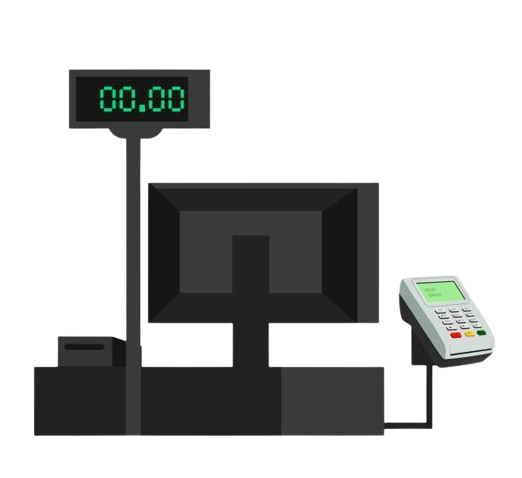
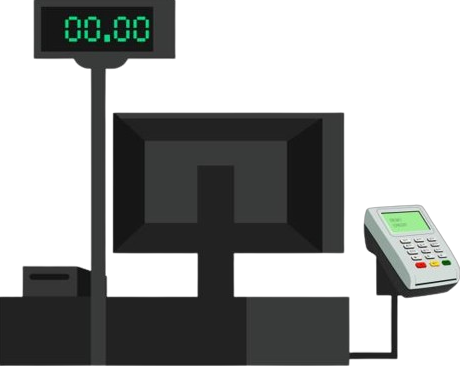
Crop nas images e mudança de tamanhos
.

diff --git a/stylesjogo.css b/stylesjogo.css
@@ -33,10 +33,10 @@ body {
 
 #Main_Character {
     position: absolute;
-    top: 360px;
-    left: 730px; /* 800px - 70px */
+    top: 500px;
+    left: 930px; /* 800px - 70px */
     transform: translate(-50%, -50%);
-    width: 130px;
+    width: 66px;
 }
 
 #Tapete_animais {
@@ -44,8 +44,7 @@ body {
     top: 400px;
     left: 340px; /* 410px - 70px */
     transform: translate(-50%, -50%);
-    width: 500px;
-    height: 500px;
+    height: 200px;
 }
 
 #Cão {
@@ -87,10 +86,10 @@ body {
 
 #Tapete_entrada {
     position: absolute;
-    top: 896px;
+    top: 890px;
     left: 703px; /* 632px - 70px */
     transform: translate(-50%, -50%);
-    width: 230px;
+    width: 100px;
 }
 
 #Caixa_Registadora {
@@ -105,9 +104,9 @@ body {
 #Image_coins_bar{
     position: absolute;
     top: 130px;
-    left: 160px;
+    left: 166px;
     transform: translate(-50%, -50%);
-    width: 233px;
+    width: 180px;
     z-index: 1;
 
 }
@@ -115,17 +114,18 @@ body {
 #Image_time_bar{
     position: absolute;
     top: 230px;
-    left: 160px;
+    left: 166px;
     transform: translate(-50%, -50%);
-    width: 233px;
+    width: 180px;
+    z-index: 1;
 }
 
 /* Disposição do contador de tempo */
 #contador {
     z-index: 2;
     position: absolute;
-    top: 256px;
-    left: 200px;
+    top: 260px;
+    left: 210px;
     transform: translate(-90%, -150%);
     font-weight: bold;
     font-size: 26px;
@@ -136,15 +136,15 @@ body {
 #Image_coins{
     position: absolute;
     top: 123px;
-    left: 36px;
+    left: 43px;
     transform: translate(-50%, -50%);
-    width: 55px;
+    width: 50px;
 }
 
 #Image_time{
     position: absolute;
     top: 225px;
-    left: 36px;
+    left: 43px;
     transform: translate(-50%, -50%);
-    width: 190px;
+    width: 40px;
 }

diff --git a/styles.css b/styles.css
@@ -92,72 +92,3 @@ body {
     accent-color: white;
 }
 
-/*Disposição da zona onde serão colocados os animais*/
-#Tapete_animais{
-    position: absolute;
-    top: 400px;
-    left: 410px;
-    transform: translate(-50%, -50%);
-    width: 500px;
-    height: 500px;
-}
-
-/*Disposição dos animais*/
-#Cão{
-    position: absolute;
-    top: 360px;
-    left: 425px;
-    transform: translate(-50%, -50%);
-    width: 60px;
-    height: 60px;
-}
-#Coelho{
-    position: absolute;
-    top: 425px;
-    left: 425px;
-    transform: translate(-50%, -50%);
-    width: 55px;
-    height: 55px;
-    z-index: 1;
-}
-#Gato{
-    position: absolute;
-    top: 430px;
-    left: 370px;
-    transform: translate(-50%, -50%);
-    width: 55px;
-    height: 55px;
-}
-#Hamster{
-    position: absolute;
-    top: 360px;
-    left: 370px;
-    transform: translate(-50%, -50%);
-    width: 70px;
-    height: 70px;
-}
-
-/*Disposição das rações dos animais*/
-#Comida_cão{
-    position: absolute;
-    top: 630px;
-    left: 370px;
-    transform: translate(-50%, -50%);
-    width: 70px;
-    height: 70px;
-}
-
-#Tapete_entrada{
-    position: absolute;
-    top: 590px;
-    left: 700px;
-    width: 200px;
-    height: 200px;
-}
-#Caixa_Registadora{
-    position: absolute;
-    top: 420px;
-    left: 865px;
-    width: 200px;
-    height: 200px;
-}

diff --git a/jogo.html b/jogo.html
@@ -17,8 +17,8 @@
     
         <!-- Imagens -->
         <img src="Images/DemoLower.png" alt="PetShop room" id="Image_room"> 
-        <img src="Images/Barras e ícones/Barra de moedas.png" alt="Barra de moedas" id="Image_coins_bar">
-        <img src="Images/Barras e ícones/Barra de moedas.png" alt="Barra de tempo" id="Image_time_bar">
+        <img src="Images/Barras e ícones/barra.png" alt="Barra de moedas" id="Image_coins_bar">
+        <img src="Images/Barras e ícones/barra.png" alt="Barra de tempo" id="Image_time_bar">
         <img src="Images/Barras e ícones/moedas.png" alt="Moedas" id="Image_coins">
         <img src="Images/Barras e ícones/tempo.png" alt="Tempo" id="Image_time">
         <img src="Images/Main_Character.png" alt="Personagem principal" id="Main_Character">

diff --git a/Logar.js b/Logar.js
@@ -9,11 +9,14 @@ function Login() {
     let user = document.getElementById("caixatextouser");
     let pass = document.getElementById("caixatextopass");
 
+    //Para os dados das caixas de texto coincidirem com os dados do dicionário
     if (dados[user.value] === pass.value) {
 
         window.location.href = "jogo.html";
         return true;
     }
+
+    //Verificar se as caixas de texto estão vazias
 
     if(user.value == "" || pass.value == "")
     {
